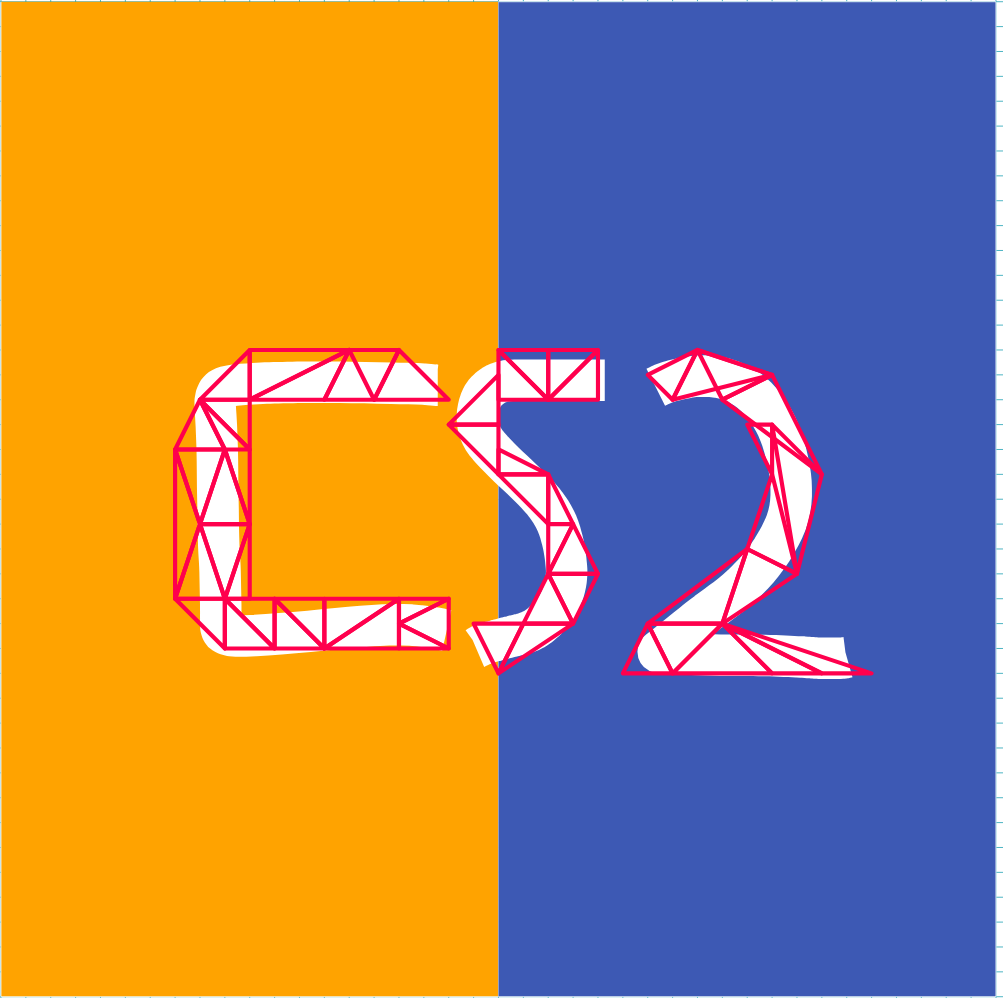
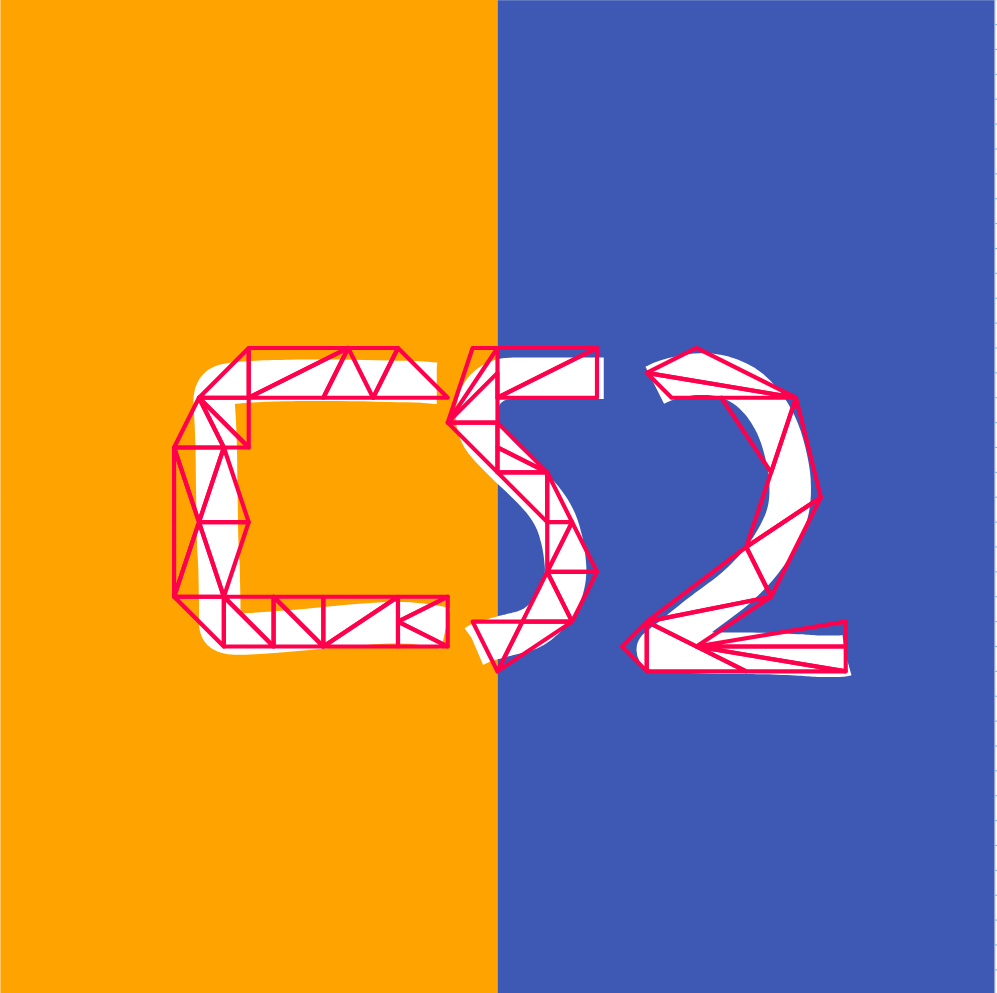
Done

diff --git a/Asgn1/src/Asgn1.js b/Asgn1/src/Asgn1.js
@@ -220,6 +220,7 @@ function handleSpecialEvent() {
   gl.disable(gl.SCISSOR_TEST);
   gl.uniform4f(u_FragColor, 1.0, 1.0, 1.0, 1.0);
 
+  // Draw the C
   drawTriangle([-0.08, 0.16, -0.16, 0.24, -0.20, 0.16]);
   drawTriangle([-0.20, 0.16, -0.16, 0.24, -0.24, 0.24]);
   drawTriangle([-0.20, 0.16, -0.24, 0.24, -0.28, 0.16]);
@@ -249,6 +250,38 @@ function handleSpecialEvent() {
   drawTriangle([-0.52, 0.08, -0.52, -0.16, -0.48, -0.04]);
   drawTriangle([-0.4, -0.04, -0.4, -0.16, -0.44, -0.16]);
 
+  // Draw the S
+  drawTriangle([0.16, 0.24, 0.16, 0.16, 0.00, 0.16]);
+  drawTriangle([0.16, 0.24, 0.00, 0.16, 0.00, 0.24]);
+  drawTriangle([0.00, 0.20, 0.00, 0.12, -0.08, 0.12]);
+  drawTriangle([-0.08, 0.12, 0.00, 0.12, 0.00, 0.04]);
+  drawTriangle([0.00, 0.04, 0.00, 0.08, 0.08, 0.04]);
+  drawTriangle([0.08, 0.04, 0.00, 0.04, 0.08, -0.04]);
+  drawTriangle([0.08, 0.04, 0.08, -0.04, 0.12, -0.04]);
+  drawTriangle([0.12, -0.04, 0.08, -0.04, 0.08, -0.12]);
+  drawTriangle([0.08, -0.12, 0.12, -0.04, 0.16, -0.12]);
+  drawTriangle([0.16, -0.12, 0.08, -0.12, 0.12, -0.20]);
+  drawTriangle([0.12, -0.20, 0.08, -0.12, 0.04, -0.20]);
+  drawTriangle([0.04, -0.20, 0.12, -0.20, 0.00, -0.28]);
+  drawTriangle([0.00, -0.28, -0.04, -0.20, 0.04, -0.20]);
+  drawTriangle([-0.08, 0.12, -0.04, 0.24, 0.00, 0.24]);
+  drawTriangle([0.0, 0.24, -0.08, 0.12, 0.00, 0.20]);
+  drawTriangle([0.0, 0.24, -0.08, 0.12, 0.00, 0.20]);
+  drawTriangle([0.00, 0.12, 0.00, 0.08, 0.08, 0.04]);
+
+  // Draw the 2
+  drawTriangle([0.24, 0.20, 0.32, 0.24, 0.48, 0.16]);
+  drawTriangle([0.24, 0.20, 0.28, 0.16, 0.48, 0.16]);
+  drawTriangle([0.48, 0.16, 0.36, 0.16, 0.44, 0.04]);
+  drawTriangle([0.48, 0.16, 0.40, -0.08, 0.52, 0.00]);
+  drawTriangle([0.52, 0.00, 0.44, -0.16, 0.40, -0.08]);
+  drawTriangle([0.40, -0.08, 0.44, -0.16, 0.24, -0.20]);
+  drawTriangle([0.24, -0.20, 0.20, -0.24, 0.24, -0.28]);
+  drawTriangle([0.24, -0.28, 0.24, -0.20, 0.40, -0.28]);
+  drawTriangle([0.24, -0.20, 0.44, -0.16, 0.32, -0.24]);
+  drawTriangle([0.32, -0.24, 0.56, -0.20, 0.56, -0.24]);
+  drawTriangle([0.56, -0.24, 0.56, -0.28, 0.32, -0.24]);
+  drawTriangle([0.32, -0.24, 0.40, -0.28, 0.56, -0.28]);
 }
 
 // Inverts the page colors for my version of night mode

diff --git a/Asgn1/src/Asgn1.html b/Asgn1/src/Asgn1.html
@@ -21,10 +21,12 @@
           <li><a href="https://www.w3schools.com/">w3schools For Help With HTML/CSS</a></li>
           <li><a href="https://developer.mozilla.org/en-US/docs/Web/API/WebGL_API/Tutorial">Mozilla For Functions Used in Special Event</a></li>
           <li><a href="https://www.youtube.com/watch?v=rfyhLGeylGA&list=PLbyTU_tFIkcMK5FiV6btXxHQAy15p0j7X">Professor Davis' Walkthrough For Majority of Code</a></li>
+          <li><a href="https://virtual-graph-paper.com/"></a>Site for Graph Paper Drawing</li>
         </ul>
         <p>Special Note</p>
         <ul>
           <li>I could not figure out how to keep the hardcoded drawing, so it disappears when drawing again. </li>
+          <li>I drew it on the site above because I am terrible at drawing and I just could not make it look how I wanted.</li>
         </ul>
       </div>
       <div id="features">
